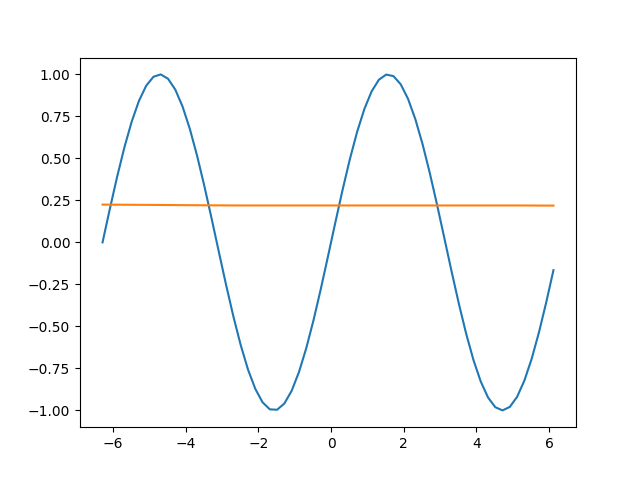
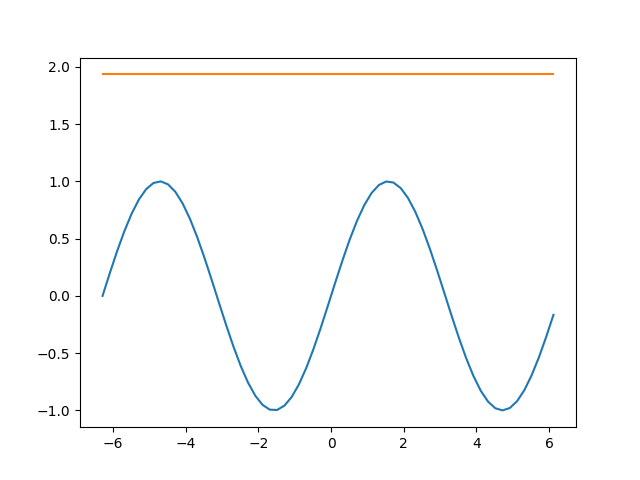
commit

diff --git a/base.py b/base.py
@@ -17,6 +17,7 @@ class NN():
 		self.numW = [5]
 		self.numY = 2
 		self.func = 'relu' # default function set to relu
+		self.epoch = 3
 
 		## Initialize input variables
 		if (len(args)>0):
@@ -36,6 +37,8 @@ class NN():
 			if(name=='func'):
 				self.func = value
 				print('activation :', value)
+			if(name=='epoch'):
+				self.epoch = value
 
 
 		## Initialize input, weigths, and outputs of the network
@@ -84,7 +87,7 @@ class NN():
 	def lrelu(self, X):
 		result = np.zeros(X.shape)
 		for i in range(len(X[0][:])):
-			result[0][i] = X[0][i] if X[0][i] else 0.001*X[0][i]
+			result[0][i] = X[0][i] if X[0][i] > 0 else 0.001*X[0][i]
 		return result
 
 	'''
@@ -95,7 +98,7 @@ class NN():
 		a = np.array([X])
 		for i in range(len(self.W)):
 			# print(np.dot(a, self.W[i]) / np.prod(a.shape))
-			z = np.dot(a, self.W[i]) / np.prod(a.shape) + self.B[i] # z = a*w + b
+			z = np.dot(a / np.prod(a.shape), self.W[i]) + self.B[i] # z = a*w + b
 			if (i==len(self.W)-1):
 				return z
 			if(self.func=='sigmoid'):
@@ -122,7 +125,7 @@ class NN():
 		Z = [0]*len(self.W)
 		A[0] = X
 		for i in range(len(self.W)):
-			Z[i] = np.dot(A[i], self.W[i]) / np.prod(A[i].shape) + self.B[i] # z = a*w + b
+			Z[i] = np.dot(A[i] / np.prod(A[i].shape), self.W[i]) + self.B[i] # z = a*w + b
 			if (i==len(self.W)-1):
 				A[i+1] = Z[i]
 			elif(self.func=='sigmoid'):

diff --git a/test_NN.py b/test_NN.py
@@ -4,6 +4,7 @@ import numpy as np
 import math
 import matplotlib.pyplot as plt
 import time
+import random
 
 '''
 Simple true/false test
@@ -38,8 +39,9 @@ print("After train (ReLu)    : ",testNet3.forward(X))
 Test case for function approximator
 '''
 DO = True
+GRAPHICS = True
 if(DO==True):
-	sinNet = base.NN(1,1,[128,256,128], func='relu')
+	sinNet = base.NN(1,1,[128,256,128], func='lrelu')
 
 	X = np.arange(-2*math.pi,2*math.pi, 0.2)
 	# Y = np.sin(X)
@@ -54,14 +56,14 @@ if(DO==True):
 	for i in range(num_iter):
 		x = np.random.rand()*math.pi*6.0-3*math.pi
 		# y = np.sin(x)
-		y = np.sin(x)
+		y = np.sin(x) + 0.1 * (2*random.random()-1)
 		if (x!=0 and y!=0):
 			for k in range(num_epoch):
-				sinNet.train([x],[y], 0.0001)
+				sinNet.train([x],[y], 0.0005)
 			sample_x[i] = x
 			sample_y[i] = y
 
-		if(i==1 or i==num_iter-1):
+		if((i==1 or i==num_iter-1) and GRAPHICS):
 			Yhat = np.zeros(Y.shape)
 			for j, x in enumerate(X):
 				Yhat[j] = sinNet.forward(x)
@@ -77,7 +79,7 @@ if(DO==True):
 			f.savefig(str(i)+" iterations.png")
 
 			# print(sinNet.W)
-		time.sleep(0.01)
+		# time.sleep(0.01)
 
 
 	# f.savefig(str(num_iter)+" iterations.png")
